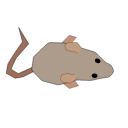
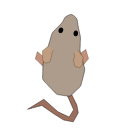
Mouse moves

Changed region(s): [[0.0312, 0.0938, 0.9062, 0.9688]]

diff --git a/core/src/main/java/de/cdietze/ld37/core/BoardState.java b/core/src/main/java/de/cdietze/ld37/core/BoardState.java
@@ -5,8 +5,7 @@ import pythagoras.i.Dimension;
 import react.RList;
 import tripleplay.util.Logger;
 
-import static de.cdietze.ld37.core.PointUtils.toX;
-import static de.cdietze.ld37.core.PointUtils.toY;
+import static de.cdietze.ld37.core.PointUtils.*;
 
 public class BoardState {
   public static final Logger log = new Logger("state");
@@ -18,7 +17,7 @@ public class BoardState {
 
   {
     entities.add(Entities.createCat(3));
-    entities.add(Entities.createMouse(51));
+    entities.add(new Entities.Mouse(51, Direction.UP));
   }
 
   public boolean tryMoveCat(Entity cat, int target) {
@@ -27,6 +26,27 @@ public class BoardState {
     int absY = Math.abs(toY(dim, cat.fieldIndex.get()) - toY(dim, target));
     if ((absX != 1 || absY != 2) && (absX != 2 || absY != 1)) return false;
     cat.fieldIndex.update(target);
+    runAi();
+    return true;
+  }
+
+  private void runAi() {
+    for (Entity entity : entities) {
+      if (entity.type == Entity.Type.MOUSE) runMouse((Entities.Mouse) entity);
+    }
+  }
+
+  private void runMouse(Entities.Mouse mouse) {
+    if (!tryMoveMouseForward(mouse)) {
+      // If mouse cannot move forward, turn left
+      mouse.dir.update(mouse.dir.get().rotateCCW());
+    }
+  }
+
+  private boolean tryMoveMouseForward(Entities.Mouse mouse) {
+    int newIndex = addDirToIndex(dim, mouse.fieldIndex.get(), mouse.dir.get());
+    if (newIndex < 0) return false;
+    mouse.fieldIndex.update(newIndex);
     return true;
   }
 

diff --git a/core/src/main/java/de/cdietze/ld37/core/Direction.java b/core/src/main/java/de/cdietze/ld37/core/Direction.java
@@ -8,21 +8,35 @@ public enum Direction {
     private final Point dir = new Point(0, -1);
     @Override
     public IPoint dir() { return dir; }
+    public Direction rotateCCW() { return LEFT; }
+    public float angle() {return 0;}
   }, DOWN {
     private final Point dir = new Point(0, 1);
     @Override
     public IPoint dir() { return dir; }
+    public Direction rotateCCW() { return RIGHT; }
+    public float angle() {return (float) Math.PI;}
   }, LEFT {
     private final Point dir = new Point(-1, 0);
     @Override
     public IPoint dir() { return dir; }
+    public Direction rotateCCW() { return DOWN; }
+    public float angle() {return (float) (1.5 * Math.PI);}
   }, RIGHT {
     private final Point dir = new Point(1, 0);
     @Override
     public IPoint dir() { return dir; }
+    public Direction rotateCCW() { return UP; }
+    public float angle() {return (float) (0.5 * Math.PI);}
   };
 
   protected abstract IPoint dir();
   public int x() { return dir().x(); }
   public int y() { return dir().y(); }
+
+  public abstract Direction rotateCCW();
+  /**
+   * in radians
+   */
+  public abstract float angle();
 }

diff --git a/core/src/main/java/de/cdietze/ld37/core/BoardScreen.java b/core/src/main/java/de/cdietze/ld37/core/BoardScreen.java
@@ -135,8 +135,10 @@ public class BoardScreen extends Screen {
         return Optional.<Layer>of(layer);
       }
       case MOUSE: {
+        Entities.Mouse mouse = (Entities.Mouse) entity;
         final ImageLayer layer = new ImageLayer(game.images.mouse);
         layer.setSize(1f, 1f).setOrigin(Layer.Origin.CENTER);
+        mouse.dir.connectNotify(rotateWithDirectionSlot(layer));
         return Optional.<Layer>of(layer);
       }
     }
@@ -150,6 +152,15 @@ public class BoardScreen extends Screen {
         int x = toX(dim, fieldIndex);
         int y = toY(dim, fieldIndex);
         layer.setTranslation(x, y);
+      }
+    };
+  }
+
+  private Slot<Direction> rotateWithDirectionSlot(final Layer layer) {
+    return new Slot<Direction>() {
+      @Override
+      public void onEmit(Direction dir) {
+        layer.setRotation(dir.angle());
       }
     };
   }

diff --git a/core/src/main/java/de/cdietze/ld37/core/Entities.java b/core/src/main/java/de/cdietze/ld37/core/Entities.java
@@ -1,12 +1,19 @@
 package de.cdietze.ld37.core;
 
+import react.Value;
+
 public class Entities {
 
   public static Entity createCat(int fieldIndex) {
     return new Entity(Entity.Type.CAT, fieldIndex) {};
   }
 
-  public static Entity createMouse(int fieldIndex) {
-    return new Entity(Entity.Type.MOUSE, fieldIndex) {};
+  public static class Mouse extends Entity {
+    public final Value<Direction> dir;
+
+    public Mouse(int initialFieldIndex, Direction initialDirection) {
+      super(Type.MOUSE, initialFieldIndex);
+      this.dir = Value.create(initialDirection);
+    }
   }
 }

diff --git a/core/src/main/java/de/cdietze/ld37/core/PointUtils.java b/core/src/main/java/de/cdietze/ld37/core/PointUtils.java
@@ -44,8 +44,14 @@ public final class PointUtils {
     return toPoint(dim, index, new Point());
   }
 
+  /**
+   * @return -1 if cannot move in `dir`
+   */
   public static int addDirToIndex(IDimension dim, int index, Direction dir) {
-    return index + dir.x() + dir.y() * dim.width();
+    int newX = toX(dim, index) + dir.x();
+    int newY = toY(dim, index) + dir.y();
+    if (!contains(dim, newX, newY)) return -1;
+    return toIndex(dim, newX, newY);
   }
 
   public static boolean contains(IDimension dim, int index) {
